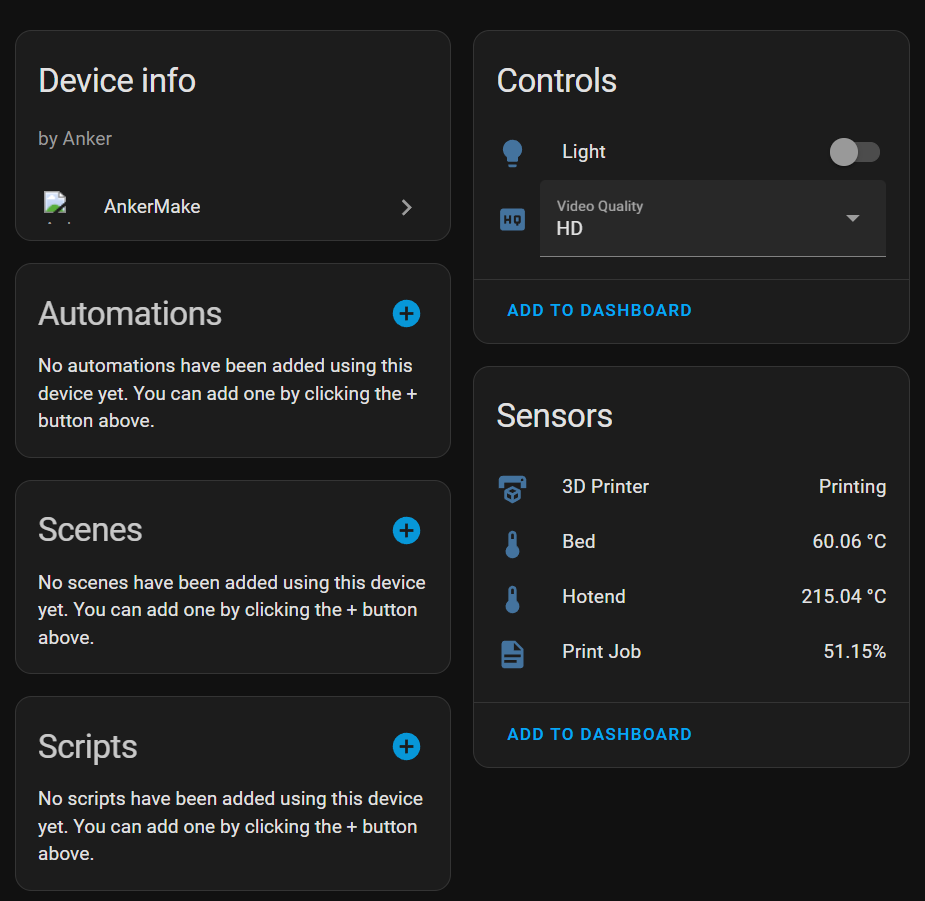
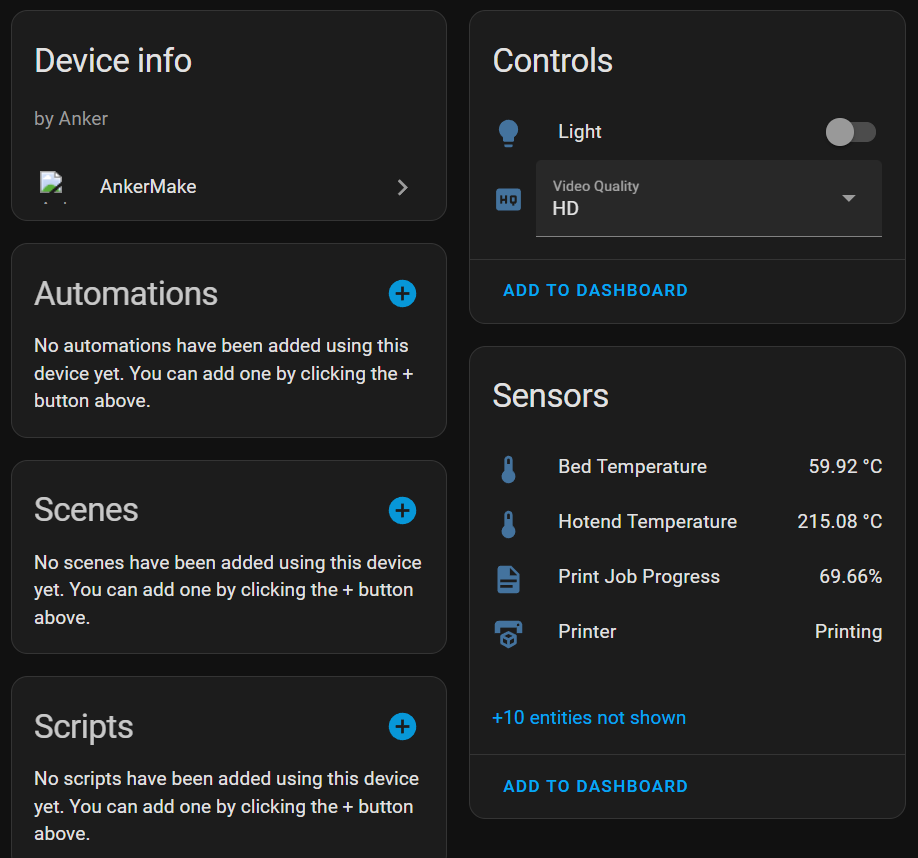
Remove old log entry, re-add some sensors as disabled for convenience

diff --git a/custom_components/ankermake/sensor_manifest.py b/custom_components/ankermake/sensor_manifest.py
@@ -1,4 +1,5 @@
 from homeassistant import const
+from homeassistant.components.binary_sensor import BinarySensorDeviceClass
 from homeassistant.components.sensor import SensorEntityDescription
 
 
@@ -8,8 +9,7 @@ class Description(SensorEntityDescription):
         super().__init__(*args, **kwargs)
 
 
-BINARY_SENSOR_DESCRIPTIONS = []  # Unused in favor of SENSOR_WITH_ATTR_DESCRIPTIONS
-"""[
+BINARY_SENSOR_DESCRIPTIONS = [
     # AI Enabled
     Description(
         key="ai_enabled",
@@ -18,55 +18,29 @@ BINARY_SENSOR_DESCRIPTIONS = []  # Unused in favor of SENSOR_WITH_ATTR_DESCRIPTI
         device_class=BinarySensorDeviceClass.CONNECTIVITY,
         entity_registry_enabled_default=False,
     ),
-]"""
+]
 
-SENSOR_DESCRIPTIONS = []  # Unused in favor of SENSOR_WITH_ATTR_DESCRIPTIONS
-"""[
-    # Status
-    Description(
-        key="status",
-        name="Status",
-        icon="mdi:printer-3d",
-    ),
+SENSOR_DESCRIPTIONS = [
     # Job Name
     Description(
         key="job_name",
         name="Job Name",
         icon="mdi:file-document",
+        entity_registry_enabled_default=False,
     ),
-    # Gcode Preview URL (Image)
+    # Start Time
     Description(
-        key="image",
-        name="Gcode Preview URL",
-        icon="mdi:image",
-    ),
-    # Progress
-    Description(
-        key="progress",
-        name="Progress",
-        icon="mdi:progress-wrench",
-        native_unit_of_measurement=const.PERCENTAGE,
-    ),
-    # Elapsed Time
-    Description(
-        key="elapsed_time",
-        name="Elapsed Time",
+        key="print_start_time",
+        name="Start Time",
         icon="mdi:timer-outline",
-        native_unit_of_measurement=const.UnitOfTime.SECONDS,
+        entity_registry_enabled_default=False,
     ),
-    # Remaining Time
+    # Estimated Finish Time
     Description(
-        key="remaining_time",
-        name="Remaining Time",
-        icon="mdi:timer-sand",
-        native_unit_of_measurement=const.UnitOfTime.SECONDS,
-    ),
-    # Total Time
-    Description(
-        key="total_time",
-        name="Total Time",
-        icon="mdi:timer",
-        native_unit_of_measurement=const.UnitOfTime.SECONDS,
+        key="print_est_finish_time",
+        name="Estimated Finish Time",
+        icon="mdi:timer-outline",
+        entity_registry_enabled_default=False,
     ),
     # Filament Used
     Description(
@@ -74,6 +48,7 @@ SENSOR_DESCRIPTIONS = []  # Unused in favor of SENSOR_WITH_ATTR_DESCRIPTIONS
         name="Filament Used",
         icon="mdi:pipe",
         native_unit_of_measurement="mm",
+        entity_registry_enabled_default=False,
     ),
     # Current Speed
     Description(
@@ -81,25 +56,21 @@ SENSOR_DESCRIPTIONS = []  # Unused in favor of SENSOR_WITH_ATTR_DESCRIPTIONS
         name="Current Speed",
         icon="mdi:speedometer",
         native_unit_of_measurement="mm/s",
+        entity_registry_enabled_default=False,
     ),
     # Current Layer
     Description(
         key="current_layer",
         name="Current Layer",
         icon="mdi:layers-triple",
+        entity_registry_enabled_default=False,
     ),
     # Total Layers
     Description(
         key="total_layers",
         name="Total Layers",
         icon="mdi:layers-triple",
-    ),
-    # Hotend Temp
-    Description(
-        key="hotend_temp",
-        name="Hotend Temperature",
-        icon="mdi:thermometer",
-        native_unit_of_measurement=const.UnitOfTemperature.CELSIUS,
+        entity_registry_enabled_default=False,
     ),
     # Target Hotend Temp
     Description(
@@ -107,13 +78,7 @@ SENSOR_DESCRIPTIONS = []  # Unused in favor of SENSOR_WITH_ATTR_DESCRIPTIONS
         name="Target Hotend Temperature",
         icon="mdi:thermometer",
         native_unit_of_measurement=const.UnitOfTemperature.CELSIUS,
-    ),
-    # Bed Temp
-    Description(
-        key="bed_temp",
-        name="Bed Temperature",
-        icon="mdi:thermometer",
-        native_unit_of_measurement=const.UnitOfTemperature.CELSIUS,
+        entity_registry_enabled_default=False,
     ),
     # Target Bed Temp
     Description(
@@ -121,8 +86,9 @@ SENSOR_DESCRIPTIONS = []  # Unused in favor of SENSOR_WITH_ATTR_DESCRIPTIONS
         name="Target Bed Temperature",
         icon="mdi:thermometer",
         native_unit_of_measurement=const.UnitOfTemperature.CELSIUS,
+        entity_registry_enabled_default=False,
     ),
-]"""
+]
 
 SENSOR_WITH_ATTR_DESCRIPTIONS = [
     # 3D Printer Sensor
@@ -140,7 +106,7 @@ SENSOR_WITH_ATTR_DESCRIPTIONS = [
     # Hotend Sensor
     [Description(
         key="hotend",
-        name="Hotend",
+        name="Hotend Temperature",
         icon="mdi:thermometer",
         native_unit_of_measurement=const.UnitOfTemperature.CELSIUS,
     ),
@@ -152,7 +118,7 @@ SENSOR_WITH_ATTR_DESCRIPTIONS = [
     # Bed Sensor
     [Description(
         key="bed",
-        name="Bed",
+        name="Bed Temperature",
         icon="mdi:thermometer",
         native_unit_of_measurement=const.UnitOfTemperature.CELSIUS,
     ),
@@ -164,7 +130,7 @@ SENSOR_WITH_ATTR_DESCRIPTIONS = [
     # Print job
     [Description(
         key="print_job",
-        name="Print Job",
+        name="Print Job Progress",
         icon="mdi:file-document",
         native_unit_of_measurement=const.PERCENTAGE,
     ),

diff --git a/custom_components/ankermake/sensor.py b/custom_components/ankermake/sensor.py
@@ -76,7 +76,6 @@ async def async_setup_entry(hass, entry, async_add_entities):
         name=coordinator.config["printer_name"])
 
     for description in SENSOR_DESCRIPTIONS:
-        _LOGGER.error(description)
         entities.append(AnkerMakeSensor(coordinator, description, dev_info))
     for description, attributes in SENSOR_WITH_ATTR_DESCRIPTIONS:
         entities.append(AnkerMakeSensorWithAttr(coordinator, description, dev_info, attributes))

diff --git a/custom_components/ankermake/const.py b/custom_components/ankermake/const.py
@@ -1,5 +1,5 @@
 NAME = 'AnkerMake'
-VERSION = '0.2.0'
+VERSION = '0.2.1'
 ISSUEURL = 'https://github.com/sondregronas/ankermake-hass-component/issues'
 
 DOMAIN = 'ankermake'
